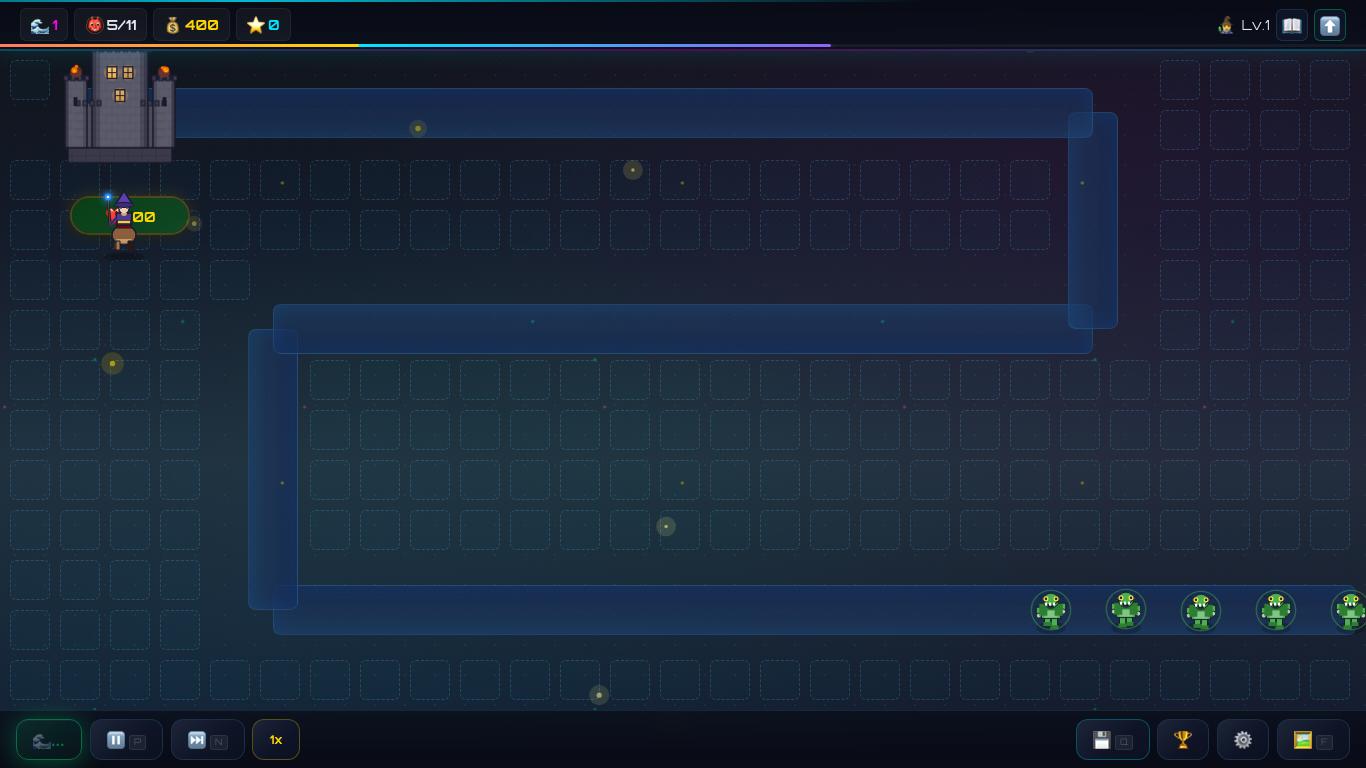
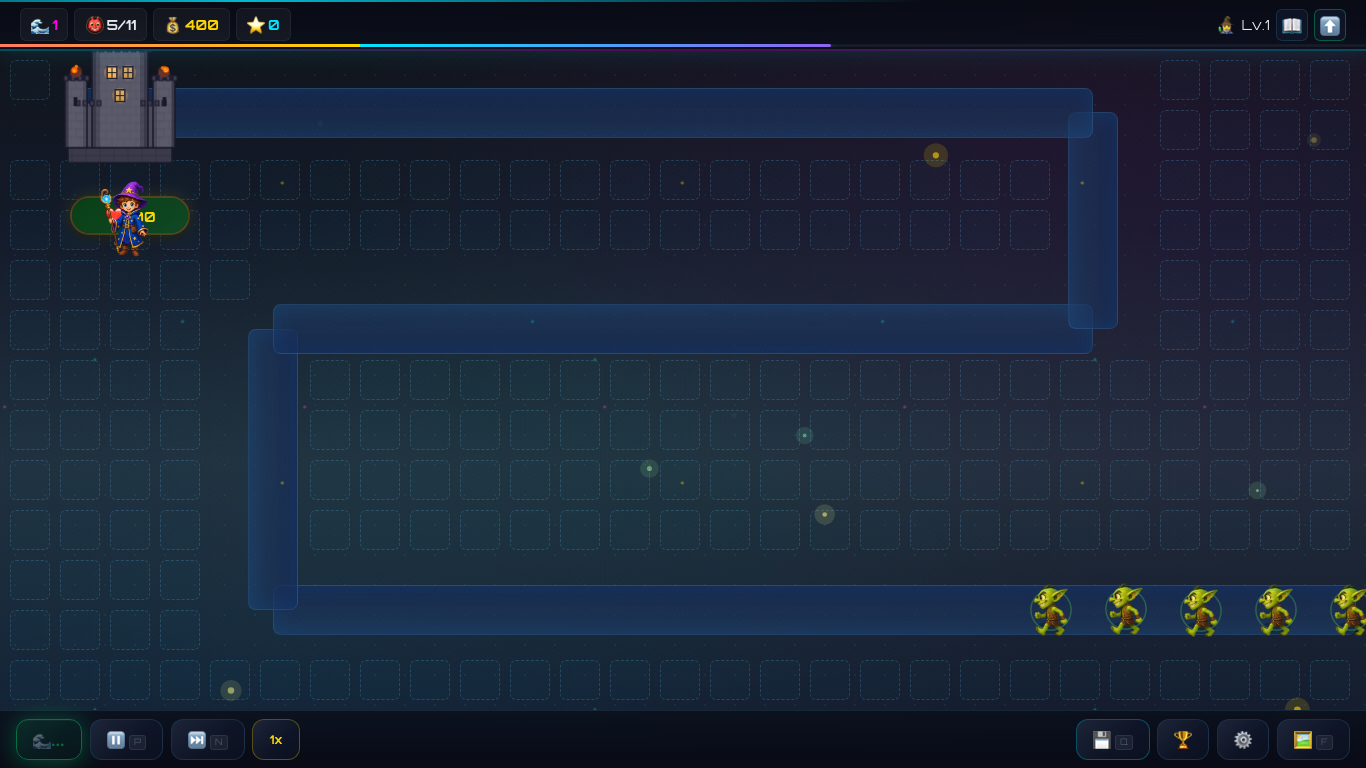
feat(v5): learning achievements, save versioning, QA tooling, progress log

diff --git a/main.js b/main.js
@@ -440,6 +440,11 @@ window.addEventListener("DOMContentLoaded", () => {
     },
     qaAddGold: (n) => { gold += n; updateFullUI(); },
     qaSetWave: (n) => { currentWave = n; updateFullUI(); },
+    qaGetMonsters: () =>
+      monsters.slice(0, 5).map((m) => ({
+        key: m.monsterKey, x: Math.round(m.x), y: Math.round(m.y),
+        direction: +m.direction.toFixed(2), pathIndex: Math.round(m.pathIndex),
+      })),
     qaPlaceTowers: (type, count) => {
       // 타일에 타워 강제 배치 (성능 테스트용)
       const tiles = [...document.querySelectorAll(".placement-tile")].slice(0, count);
@@ -2973,6 +2978,10 @@ function checkAnswer(answer, clickedBtn) {
       );
       // v5: 학습=화력 — 정답 시 마법 쿨다운 30% 감소
       learnLoop.recordCorrect(isReviewProblem);
+      if (isReviewProblem)
+        checkAchievements("review_correct", {
+          reviewCleared: learnLoop.stats.reviewCleared,
+        });
       const nowCd = performance.now();
       for (const key in wizardCooldowns) {
         if (wizardCooldowns[key] > nowCd) {
@@ -3419,6 +3428,7 @@ function setupEventListeners() {
       WIZARD_AUTO_ATTACK_STATS.rangeSq =
         WIZARD_AUTO_ATTACK_STATS.range * WIZARD_AUTO_ATTACK_STATS.range;
       showUpgradeNotification(`🧙♂ 마법사 레벨 ${wizardLevel} 달성!`);
+      checkAchievements("wizard_level", { level: wizardLevel });
       sfx.init().then(() => sfx.play("wizard_levelup"));
       wizardSprite.setLevelUp();
       populateSpellbook();

diff --git a/achievements.js b/achievements.js
@@ -78,6 +78,28 @@ export class AchievementSystem {
         condition: (eventType, data) =>
           eventType === "math_correct" && data.streak >= 30,
       },
+      // ---- v5 학습 업적 ----
+      review_clear: {
+        id: "review_clear",
+        name: "오답 정복자",
+        description: "틀렸던 문제를 다시 만나 맞히세요",
+        condition: (eventType, data) =>
+          eventType === "review_correct" && data.reviewCleared >= 1,
+      },
+      review_master: {
+        id: "review_master",
+        name: "복습의 달인",
+        description: "복습 문제를 5회 맞히세요",
+        condition: (eventType, data) =>
+          eventType === "review_correct" && data.reviewCleared >= 5,
+      },
+      spell_collector: {
+        id: "spell_collector",
+        name: "대마법사",
+        description: "마법사 레벨 10을 달성하세요",
+        condition: (eventType, data) =>
+          eventType === "wizard_level" && data.level >= 10,
+      },
       ultimate_tower: {
         id: "ultimate_tower",
         name: "궁극의 힘",

diff --git a/docs/UPGRADE-PLAN.md b/docs/UPGRADE-PLAN.md
@@ -173,3 +173,23 @@ Phase E (출고):    Final Review Gate (3-Pass) → 성능 실측 보고 → 배
 | 문제 재생성 후 품질 | 검증기 전수 통과 + 학년별 랜덤 100문항 육안 샘플링 |
 | main.js 분해 중 회귀 | 헤드리스 시나리오를 분해 **전에** 먼저 작성해 안전망으로 사용 |
 | 세이브 호환 깨짐 | `{version, data}` 래퍼 + 마이그레이션 체인 + 구세이브 테스트 |
+
+---
+
+## 7. 진행 로그 (2026-07-23)
+
+| WS | 상태 | 실측 증거 |
+|---|---|---|
+| WS-1 문제 재정비 | ✅ | 19,613문제 생성, 검증기 오류 0건 (구 데이터 3,488건) · 학년별 분할 동적 로드 |
+| WS-2 웨일북 최적화 | ✅ | 몬스터 DOM 제거 · 몸체 프레임캐시 · shadowBlur 0 · 저사양 자동강등 · CPU 8배 스로틀 60fps 실측 |
+| WS-3 에셋 | 🔄 | 앵커 3종 승인 · 배치 64컷 생성 중 · 스프라이트 통합 파이프라인 인게임 검증 완료 |
+| WS-4 밸런스 | ✅ | 프로브 격자: 60% 학생 15+ 웨이브, 95%는 웨이브 59-60 자연 한계 · 웨이브8 벽 제거 |
+| WS-5 마법 10종 | ✅ | E2E 10/10 시전 성공 (헤드리스 실측) |
+| WS-6 학습 루프 | ✅ | 오답 풀이 힌트 · 간격 반복 재출제 · 정답→쿨다운 30%↓ · 학습 업적 3종 · 게임오버 리포트 |
+| WS-7 검증 인프라 | ✅ | simCore 분리 · 헤드리스 20/20 · 스모크/스펠/성능 QA 도구 |
+
+### 추가 발견·수정한 기존 버그 (v4.1 잠복)
+1. `musicSystem.init()` Promise 미반환 → 첫 클릭 크래시로 **BGM 영구 무음**
+2. `#info-bar` position 이중선언 → **HUD 전체가 화면 밖(y=768)**
+3. `.castle-health` 동일 클래스 버그 → 성 체력 "00" 잘림 표시
+4. 구 문제 데이터: 정답 자체 오류 4건+, 비정수 나눗셈 29건, 중1 대수 혼입
